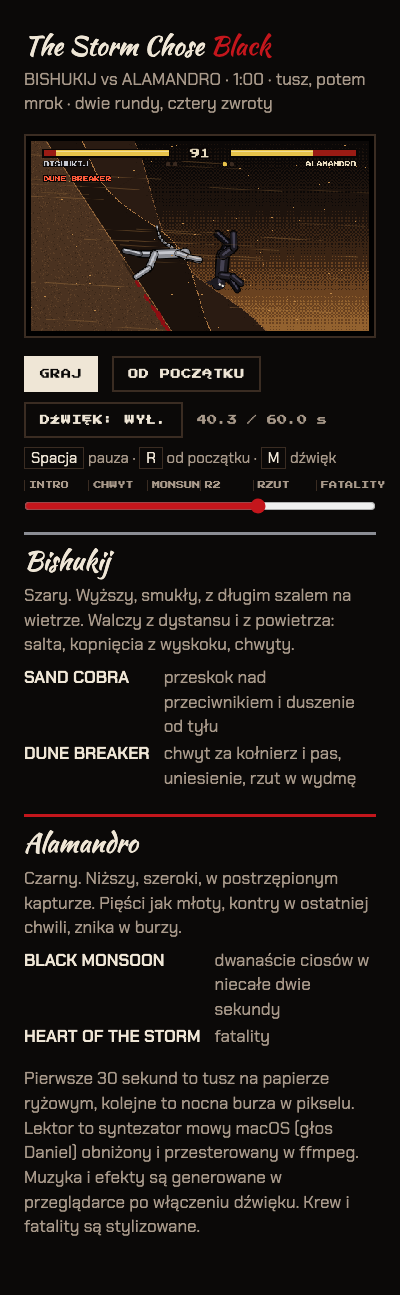
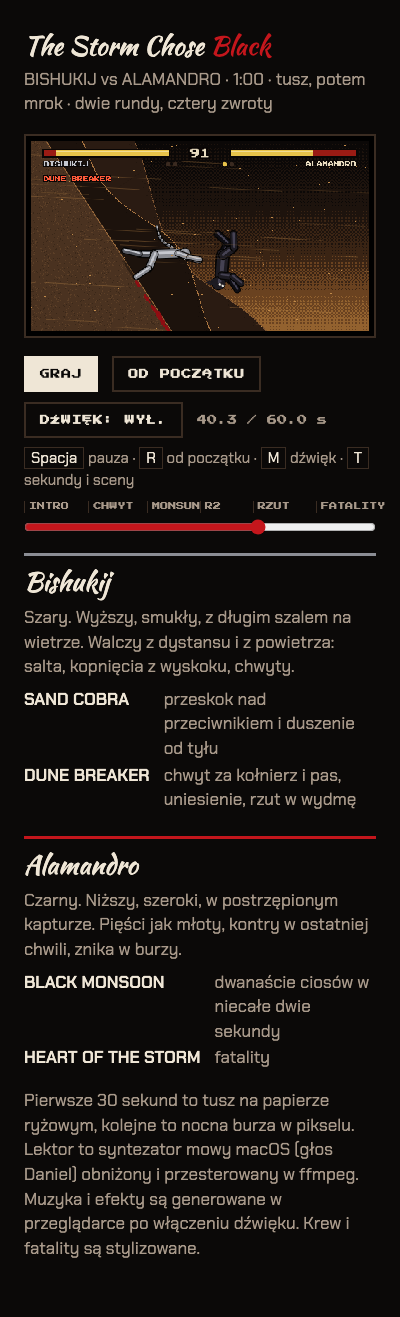
docs(how-it-works): assertions, engine elements, timeline audience, notes db

Changed region(s): [[0.06, 0.0309, 0.96, 0.9575]]

diff --git a/docs/HOW-IT-WORKS.md b/docs/HOW-IT-WORKS.md
@@ -92,3 +92,60 @@ sequenceDiagram
 - **Arkusz klatek:** jeden PNG z siatką kadrów z wybranych chwil. Pokazuje próbki, nie całość, więc łapie problemy wizualne tylko w tych chwilach.
 
 Więcej pojęć: [`pocs/GLOSSARY.md`](../pocs/GLOSSARY.md).
+
+## 6. Asercje: kto je wymyśla i jak są sprawdzane
+**Autorem asercji jestem ja (Claude), ale źródłem jest zaakceptowany BRIEF.** Każdy zwrot akcji i decyzja z briefu zamienia się w sprawdzenie z oknem czasu, np. „ZWROT 3: rzut” → „chwyt 39,2–39,5 s, uderzenie 40,5–41 s, obrażenia ≥ 40, obie postacie w kadrze”. Puppeteer **nie wymyśla** niczego: tylko otwiera film i odpytuje go o fakty. Porównanie robi zwykły kod w `check.mjs`.
+
+```mermaid
+flowchart LR
+  BR["BRIEF.md<br/>(zaakceptowany przez Ciebie)"] -->|"Claude tłumaczy zwroty i decyzje<br/>na warunki z czasem"| AS["check.mjs<br/>lista asercji"]
+  subgraph CH["headless Chrome (przez Puppeteer)"]
+    F["storm.html"] --> EV["anim.events()<br/>co się wydarzyło i kiedy"]
+    F --> VW["anim.view()<br/>gdzie są postacie na ekranie"]
+  end
+  EV --> CMP{"porównanie<br/>w Node"}
+  VW --> CMP
+  AS --> CMP
+  CMP --> R["PASS / FAIL + szczegóły"]
+  R --> C(("Claude: poprawka<br/>filmu albo asercji"))
+```
+
+**Ryzyko:** „sam sobie piszę klucz odpowiedzi”. Jak je ograniczamy:
+- asercje dają się wyprowadzić z tekstu briefu (każda ma swój zwrot albo decyzję);
+- jeśli zmieniam asercję, mówię o tym wprost, np. zbliżenie w PoC #3 sprawdza punkty kluczowe zamiast całych ciał;
+- docelowo **asercje będą w tabeli scen w BRIEF**, więc akceptujesz je razem ze scenariuszem.
+
+Rodzaje dziś:
+
+| Rodzaj | Przykład | Źródło danych |
+|---|---|---|
+| fabuła | „K.O. BISHUKIJA 24–24,5 s”, „12 trafień monsunu” | `events()` |
+| widzialność | „obie postacie w kadrze w 40,95 s” | `view()` (pozycje kości → ekran) |
+| dynamika | „≥ 36 starć w trzech wymianach” | `events()` |
+| technika | „0 błędów konsoli” | konsola przeglądarki |
+
+## 7. Elementy silnika (co robi każdy klocek)
+| Element | Co robi | Analogia | W kodzie (PoC #3) |
+|---|---|---|---|
+| **Scenariusz** | lista zdarzeń „w chwili t kto robi co i z jakim wynikiem” | scenopis reżysera | `at()`, `sys()`, `SCENES` |
+| **Zegar 60 Hz** | przesuwa czas o stałe 1/60 s. Dzięki temu każde odtworzenie jest identyczne, a `seek(41.2)` daje zawsze tę samą klatkę | metronom | `tick()`, `STEP` |
+| **Symulacja** | wykonuje akcje: ruch, skoki, chwyty, trafienia, HP, krew. Pyta scenariusz, *co* ma się stać, i liczy, *jak* to wygląda w czasie | aktorzy na planie | `updateActor()`, `resolveHit()` |
+| **Rig + IK** | zamienia pozę („cios prosty”) na pozycje kości. IK przykleja dłoń do szyi lub pasa przeciwnika | kościec lalki | `PO`, `fkLocal()`, `ik2()` |
+| **Kamera** | śledzi walczących, a w ujęciach robi najazd, odjazd albo obrót | operator | `updateCamera()`, `SHOTS` |
+| **Render** | rysuje klatkę: tło i paralaksa, postacie w stylu (a) lub (b), efekty, HUD, napisy, znacznik sekundy | malarz | `render()`, `drawWorld()`, `drawFighter()` |
+| **Kolejka audio** | symulacja zgłasza „tu cios”, „tu lektor”. Na żywo gra od razu, do MP4 renderuje się offline | dźwiękowiec | `cue()`, `playCue()`, `renderAudio()` |
+| **Log zdarzeń** | zapisuje, co się faktycznie wydarzyło (dla asercji i TIMELINE) | kronikarz | `log()`, `EV` |
+| **`window.anim`** | „okienko” dla narzędzi: przewiń, podaj stan, zdarzenia, sceny | panel serwisowy | na dole pliku |
+
+## 8. TIMELINE: dla kogo?
+**Dla obu stron.** Wejście jest to samo („@41 …”), ale TIMELINE:
+- **Tobie** daje adres sceny (0:41 to S10, więc możesz powiedzieć „cała S10 wolniej”) i pamięć: po tygodniu przypomnisz sobie, co gdzie jest, bez oglądania;
+- **mnie** daje dokładne miejsce w kodzie (ID zdarzeń);
+- **obu** pokazuje po poprawce, co się faktycznie zmieniło.
+
+## 9. Notatki w bazie artefaktu (koncepcja reżyserki, do weryfikacji)
+- **Gdzie:** w magazynie danych przypiętym do **adresu artefaktu** na claude.ai (zbiory dokumentów). Strona zapisuje notatki przez API przeglądarki, a ja czytam i zapisuję je narzędziem `Artifact` (`read_db` / `write_db`).
+- **Wersje filmu:** ponowna publikacja pod **tym samym linkiem** nie kasuje danych, bo baza jest niezależna od wersji strony. Nowy link oznacza nową, pustą bazę.
+- **Notatka:** `{ id, wersja/commit, t, scena, poziom, tag, opis, status, PRZED/PO }`. Scena + czas pozwalają ją odnaleźć nawet po przesunięciach w filmie.
+- **Kto zarządza statusem:** ja ustawiam `w pracy → zrobione` (z commitem i PRZED/PO), ty zatwierdzasz albo otwierasz ponownie.
+- Szczegóły (limity, uprawnienia, dostępność na koncie) **do sprawdzenia** przed budową. Patrz [`ideas-director.md`](ideas-director.md).
